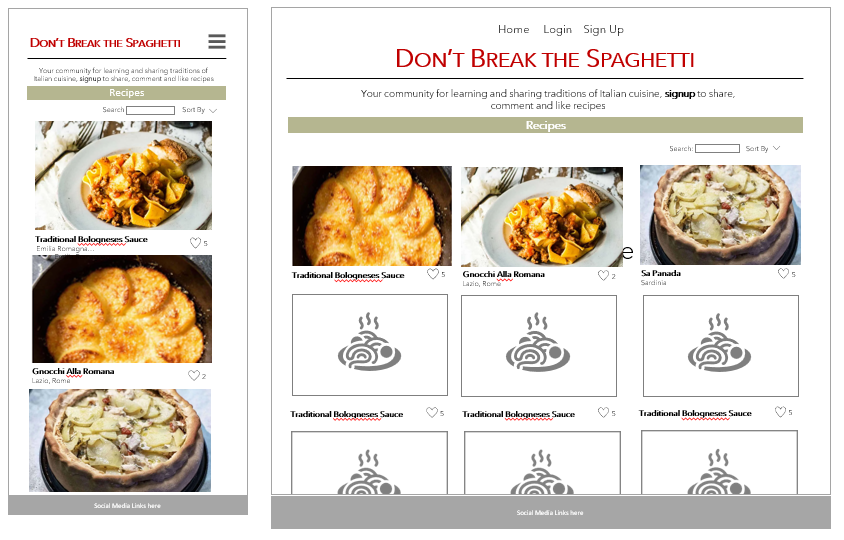
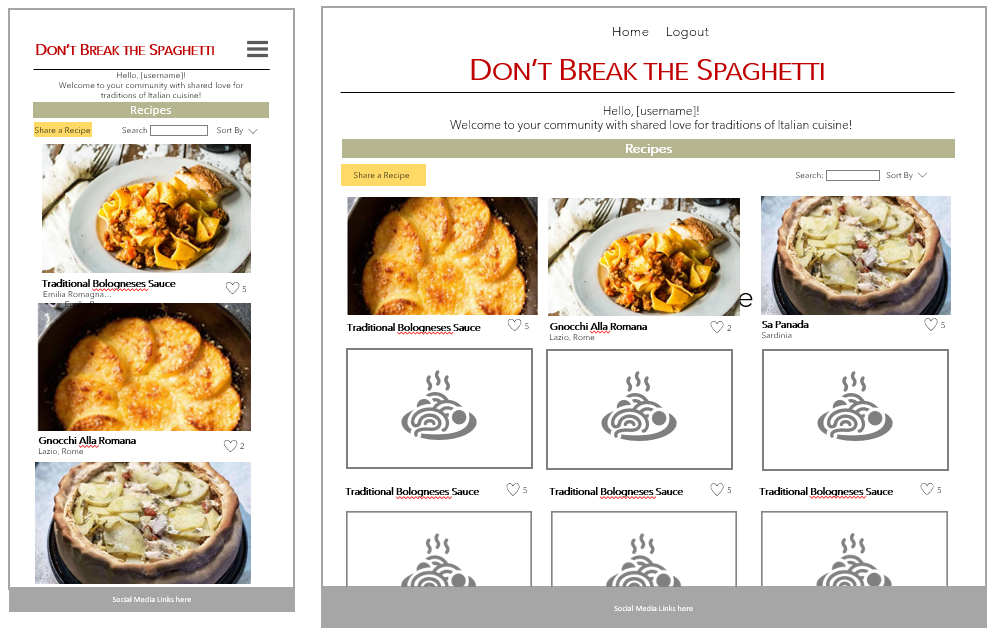
Add user stories and designs to readme

diff --git a/README.md b/README.md
@@ -1,46 +1,66 @@
 ![CI logo](https://codeinstitute.s3.amazonaws.com/fullstack/ci_logo_small.png)
 
 # Don't Break The Spaghetti
+![Am I responsive view of the site](/workspace/p4-recipe-book/readme/images/p4-am-i-responsive.png)
 Your community for learning and sharing traditions of Italian cuisine
 
 Don't Break the Spaghetti is a recipe book of traditional italian recipes. Users can register for the site in order to post a recipe, like or comment on other recipes. Site is for anyone interested of traditional Italian cuisine and acts as a community allowing users to interact one another.
 
 [View the active site here](https://dbts-recipe-app-f9995cb6b9df.herokuapp.com/)
 
-## Design Process
-
+## Project Goal
 ### Problem Statement
 Following problem statement was created for a imaginary user group:
 I am **a user** trying to **find an application where I can share my interest for traditional italian cuisine** but **I can't find one** because **most recipe sites are blogs or not spesific enought** which makes me feel **like there isn't anyone else interested of this subject**
 
 ### Goals
-- Goal for thsi project is to provide a solution for the stated problem statement.
+- Goal for this project is to provide a solution for the stated problem statement.
 - Build an online recipe book for traditional Italian Recipes.
 - Allow users to post and share recipes.
 - Any visitor should be able to view recipes.
-- Registered users should be able to share recipes with photo and description.
+- Registered users should be able to share recipes with photo and a description.
 - Registered users should be able to like and comment on recipes.
 - Application should be responsive on different screen sizes.
 - Application should provide a simple intuitive interface that is easy to navigate.
 - Sites layout and colorscheme is pleasing and keeps users coming back to it.
 
-### User Interface(UI) Design
+# User Experience UX
+## Wireframes
 A wireframe for the home page was made using powerpoint.
 
-### Model Design
-Each table was designed 
+The design for the fron page needed to display multiple recipe cards, header with navigation menu on top, a footer with social media links and a button to share recipes(if logged in). This original wireframe incuded a search and filter tab above the recipes but it was not implemented. 
+![Wireframe for the fron page](https://github.com/HMuraja/p4-recipe-book/blob/main/readme/images//p4-dbts-wireframe2.png)
 
-## Development Process
-### Development Stragey
+
+The design for the recipe should have dedicated areas for the image, summary(green section), description, ingerdients and method. Comments should be stacked under the recipe. The layout in the final product variated slightly, where the description, ingredients and method ended up being under one another. The button for editing and deleting the recipe ended up being below all the recipe content with the date of creation.
+![Wireframe for the fron page](https://github.com/HMuraja/p4-recipe-book/blob/main/readme/images//p4-dbts-wireframe1.png)
+
+The page for creating and editing was designed very roughly, with the decision that the form should fill the whole page for simplicity.
+![Wireframe for the fron page](https://github.com/HMuraja/p4-recipe-book/blob/main/readme/images//p4-dbts-wireframe5.png)
+
+Plan was to have the same header and footer for each page. This solution carried ion for each page. Mobile version design had dropdown icon for the navigation links-
+
+## Color Scheme
+
+Colorscheme for the project ended up being white, red, green,yellow, light grey and charcoal grey. White was used as background with light grey used some areas to highlight sections. Text was either charcoal or white depending on the background. Red, green and yellow to hightlight important sections. Bright highlighting colors were picked for their apetizing color that matched well the food images shared on the site without overwhelming the site.
+![Color Scheme for the Page](https://github.com/HMuraja/p4-recipe-book/blob/main/readme/images/coolors-colors-scheme.png)
+
+## Data Design
+A design for data was drafted using [diagrams.net](https://app.diagrams.net/).
+
+The data diagram had three models recipe user and comment. These three tables had foreign keys that connected the data accross the tables.
+![Color Scheme for the Page](https://github.com/HMuraja/p4-recipe-book/blob/main/readme/images/data-diagram.png)
+
+## Agile Stragety
 Agile methodologies were applied in the development process of this project. Following principles were followed durint he process:
-- Development process maintained flexible, so chnages could be implemented if it yielded better results.
+- Development process maintained flexible, so changes could be implemented if it yielded better results.
 - Features where kept to minimum, avoiding useless features.
 - Features were implemented in order of priority.
 - Project was developed in small iterations in order ensure functionality of each feature implemented.
 - Github Project board was used as an information radiator to manage feature implementation.
 - User Stories were used to designing user centric features
 
-### User Stories
+## User Stories
 User Stories were made using the Github _Issues_ feature. Each issue equated a User Story. Each Issue was tagged with a lable, a Github Issues feature, based on it's importance for the application. Following labels were created (listed in order of importance): 
 - Must have
 - Should have
@@ -48,6 +68,67 @@ User Stories were made using the Github _Issues_ feature. Each issue equated a U
 - Won't-Have
 
 Issues were added on the Github Projects Boards, a builtin management tool from GitHub, as tasks. The implementation of the features was tracked by moving the tasks on each of the boards column. Three columns were named: Todo, InProgress and Done.
+
+### USer Stories
+All together 15 user stories were drafted and Acceptance Criteria together with Tasks were created. 
+
+IMPLEMENTED USER STORIES
+
+Following 10 user stories were implemented during the development. You can see them on the done column of this repository's project board.
+
+USER STORY: Like a recipe *- Label: Should-Have*
+As an **user** I can **like or unlike a recipe** so that **I can promote recipes I like**
+
+USER STORY: Social Media Link *- Label: Could-Have*
+As an **user/site viewer** I can **access site creators social media profiles** so that **I can find out more about the site creator or contact*
+
+USER STORY: User Login Features *- Label: Must-Have*
+As an **site user** I can **create and account, login and logout from an account** so that ** I can create recipes, comment and like**
+
+USER STORY: View Selection of Recipe *- Label: Must-Have*
+As an **site viewer/user** I can **view a selection of recipes** so that **I can select the one I want to view**
+
+USER STORY: Comment *- Label: Must-Have*
+As a **user** I can **leave comments on a post** so that **I connect and discuss of the recipes with my fellow users**
+
+USER STORY: Admin Recipe Mangament *- Label: Could-Have*
+As an **site manager** I can **prevent any unauthorized users/visitors from accessing CRUD functionalities** so that **that only authorized users can access, delete and change the data**
+
+USER STORY: Unauthorized Access *- Label: Must-Have*
+As an **site manager** I can **prevent any unauthorized users/visitors from accessing CRUD functionalities** so that **that only authorized users can access, delete and change the data**
+
+USER STORY: View Comments *- Label: Should-Have*
+As a **site viewer/user** I can **open a recipe* so that **I can read any comments**
+
+USER STORY: Manage a Recipe *- Label: Must-Have*
+As an **user** I can **create, update and modify a recipe** so that **share recipes that I like**. 
+
+USER STORY: Site Navigation *- Label: Must-Have*
+As a **site viewer/user** I can **easily navigate the site** so that **I can find what I need**
+
+USER STORY: Responsive Design *- Label: Must-Have*
+As an **site viewer/user** I can **view the site from multiple screen sizes and different devices** so that **I can access the recipe book the device I have available**
+
+NOT IMPLEMENTED STORIES
+
+All together 5 user stories weren't implemented, you may see them on the project board of this repository.
+
+USER STORY: My Profile *- Label: Could-Have*
+As an user I can view my user information so that have get more personalized experience from the application
+
+USER STORY: Featured Recipe *- Label: Could-Have*
+As an user/visitor I can see a featured recipe on top of the page so that I get suggestions I might not search myself
+
+
+USER STORY: Sort Recipes *- Label: Could-Have*
+As an site viewer/user I can sort recipes so that most relevant recipe is shown
+
+USER STORY: Search Recipe *- Label: Could-Have*
+As an site viewer/user I can type a search that retrieves any recipes with a match so that quickly find what I need
+
+USER STORY: Filter Recipes *- Label: Could-Have*
+As an site viewer/user I can filter the recipes so that I narrow down the recipes viewed
+
 
 ## Features
 ### Installed Features
@@ -72,7 +153,7 @@ Site HTML was teststed using the [W3C HTML Markup Validation Service](https://va
 
 Initial validation result.![initial html validation test](https://github.com/HMuraja/p4-recipe-book/blob/main/readme/images/html-validation.png)
 
-Final validation result.![final html validation test](https://github.com/HMuraja/p4-recipe-book/blob/main/readme/images/final-html-validation.png)
+Final validation result.![final html validation test](https://github.com/HMuraja/p4-recipe-book/blob/main/readme/images/html-validation-final.png)
 ### CI Python Linter
 All python files in the *recipeapp*-folder were validated via the[CI Python Linter](https://pep8ci.herokuapp.com/). All files passed the validation without errors.
 
